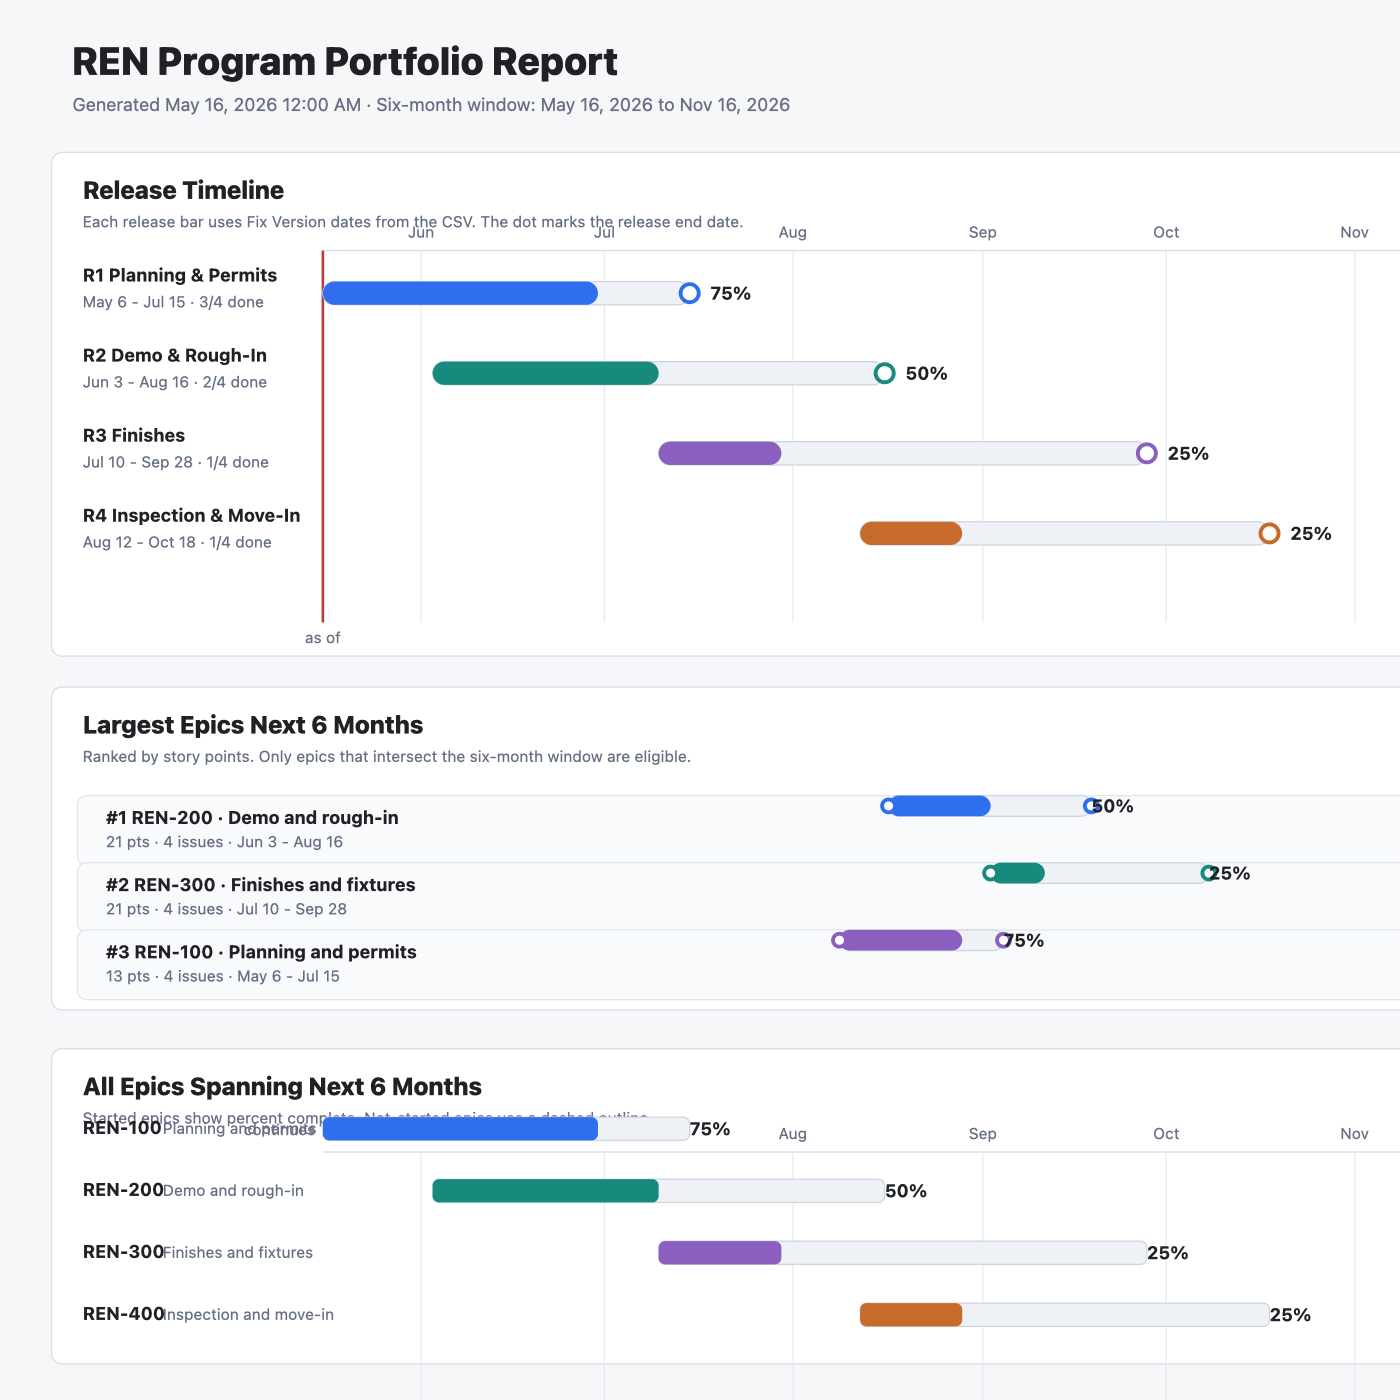
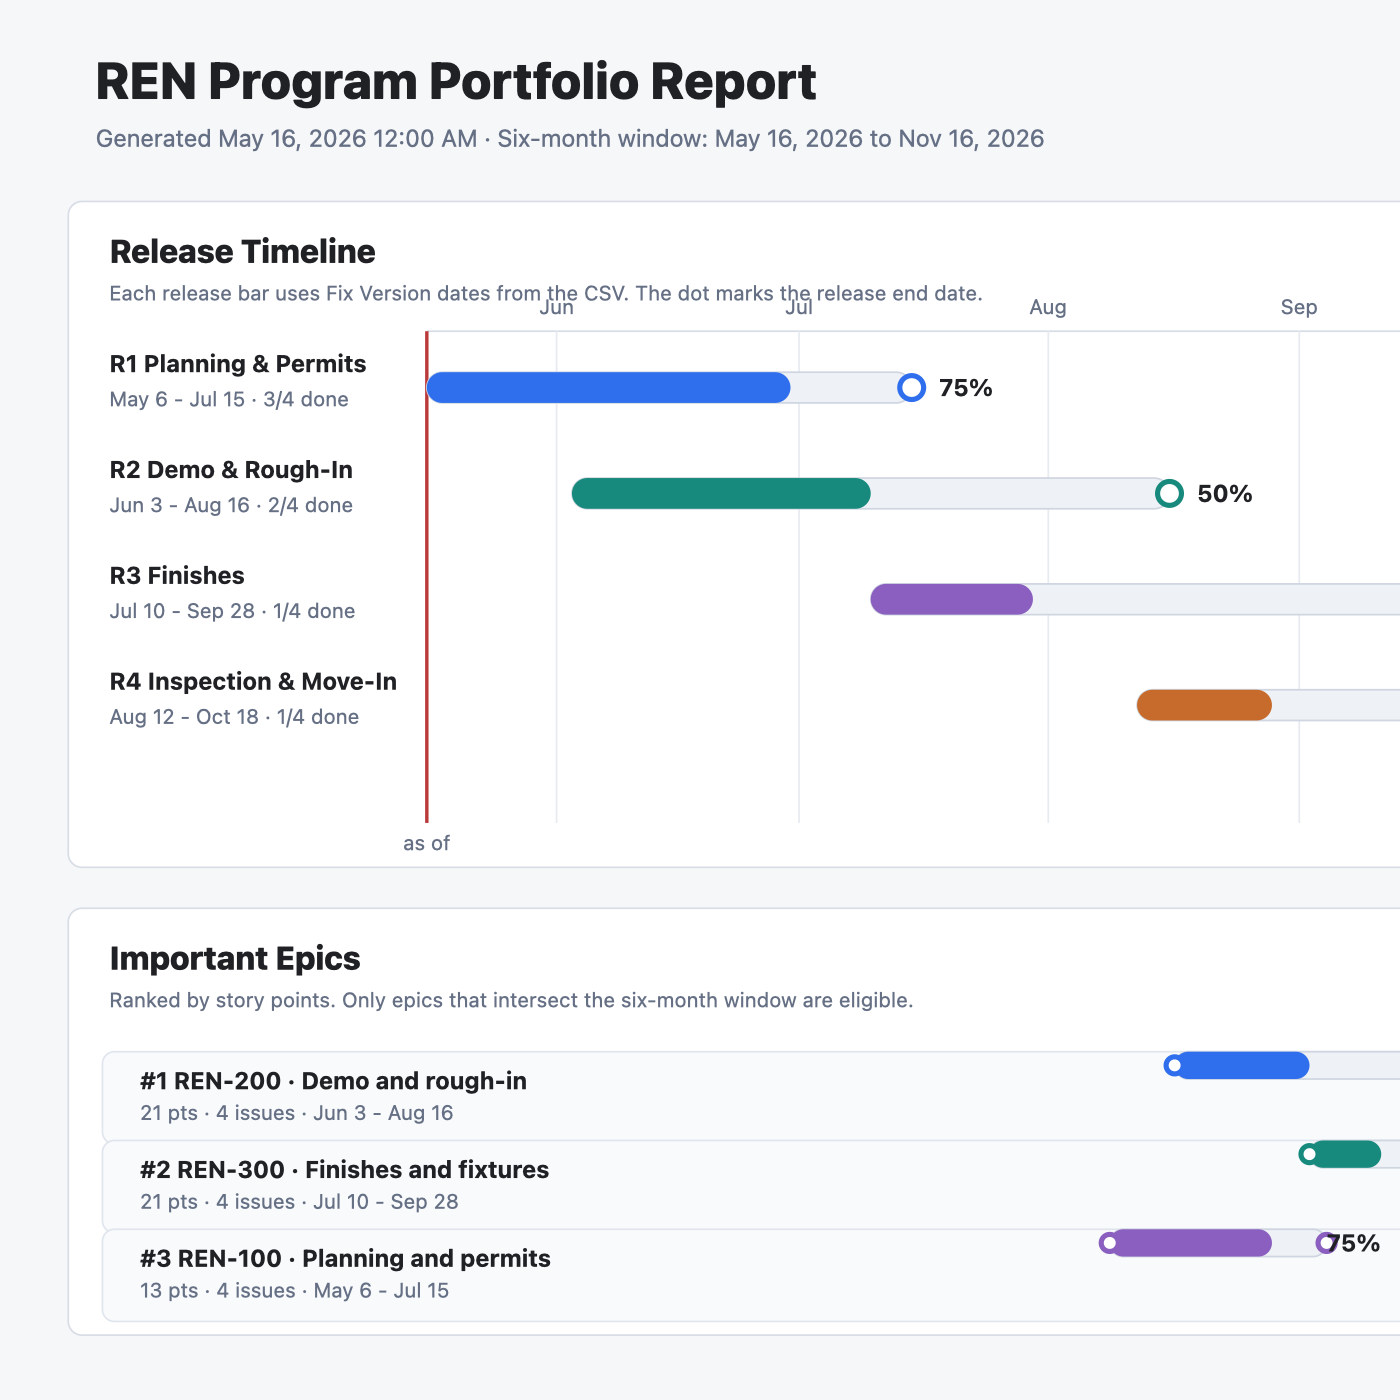
Simplify portfolio report visual

diff --git a/main.go b/main.go
@@ -781,7 +781,6 @@ type SVGReport struct {
 	RankingLabel string
 	Width        int
 	Height       int
-	GanttHeight  int
 	ChartLeft    int
 	ChartRight   int
 	ChartWidth   int
@@ -789,7 +788,6 @@ type SVGReport struct {
 	TodayX       int
 	Releases     []SVGRelease
 	TopEpics     []SVGEpic
-	GanttEpics   []SVGEpic
 }
 
 type SVGTick struct {
@@ -885,23 +883,13 @@ func buildSVGReport(report Report, mode string, now time.Time) SVGReport {
 		topEpics = append(topEpics, svgEpic(epic, i+1, 616+i*52, colors[i%len(colors)], windowStart, windowEnd, 650, 390, rankingLabel))
 	}
 
-	gantt := make([]SVGEpic, 0, len(report.Epics))
-	for i, epic := range report.Epics {
-		if i >= 9 {
-			break
-		}
-		gantt = append(gantt, svgEpic(epic, i+1, 865+i*48, colors[i%len(colors)], windowStart, windowEnd, left, width, rankingLabel))
-	}
-
-	height := 940 + maxInt(0, len(gantt)-1)*48
 	return SVGReport{
 		ProjectName:  report.ProjectName,
 		GeneratedAt:  report.GeneratedAt,
 		WindowLabel:  fmt.Sprintf("%s to %s", windowStart.Format("Jan 2, 2006"), windowEnd.Format("Jan 2, 2006")),
 		RankingLabel: rankingLabel,
 		Width:        1200,
-		Height:       height,
-		GanttHeight:  maxInt(150, height-812-28),
+		Height:       820,
 		ChartLeft:    left,
 		ChartRight:   right,
 		ChartWidth:   width,
@@ -909,7 +897,6 @@ func buildSVGReport(report Report, mode string, now time.Time) SVGReport {
 		TodayX:       dateX(windowStart, windowStart, windowEnd, left, width),
 		Releases:     releases,
 		TopEpics:     topEpics,
-		GanttEpics:   gantt,
 	}
 }
 
@@ -1033,7 +1020,7 @@ func writeSampleCSV(path string) error {
 
 const svgTemplate = `<svg xmlns="http://www.w3.org/2000/svg" width="{{.Width}}" height="{{.Height}}" viewBox="0 0 {{.Width}} {{.Height}}" role="img" aria-labelledby="title desc">
   <title id="title">{{.ProjectName}} Program Portfolio Report</title>
-  <desc id="desc">Jira CSV visualization with release timeline, largest epics over the next six months, and all epic gantt rows.</desc>
+  <desc id="desc">Jira CSV visualization with release timeline and important epics over the next six months.</desc>
   <defs>
     <style>
       .page { fill: #f6f7f9; }
@@ -1081,7 +1068,7 @@ const svgTemplate = `<svg xmlns="http://www.w3.org/2000/svg" width="{{.Width}}" 
   {{end}}
 
   <rect class="panel" x="40" y="532" width="1120" height="250" rx="8"/>
-  <text class="ink section" x="64" y="568">Largest Epics Next 6 Months</text>
+  <text class="ink section" x="64" y="568">Important Epics</text>
   <text class="muted small" x="64" y="590">{{.RankingLabel}}. Only epics that intersect the six-month window are eligible.</text>
   {{range .TopEpics}}
     <rect class="soft" x="60" y="{{.Y}}" width="1080" height="54" rx="7"/>
@@ -1096,28 +1083,6 @@ const svgTemplate = `<svg xmlns="http://www.w3.org/2000/svg" width="{{.Width}}" 
     <circle class="dot" cx="{{.X}}" cy="{{.Y}}" r="5" transform="translate(0 8)" stroke="{{.Color}}"/>
     <circle class="dot" cx="{{.X}}" cy="{{.Y}}" r="5" transform="translate({{.Width}} 8)" stroke="{{.Color}}"/>
     <text class="ink label" x="{{.X}}" dx="{{.Width}}" y="{{.Y}}" dy="13">{{.Percent}}%</text>
-  {{end}}
-
-  <rect class="panel" x="40" y="812" width="1120" height="{{.GanttHeight}}" rx="8"/>
-  <text class="ink section" x="64" y="848">All Epics Spanning Next 6 Months</text>
-  <text class="muted small" x="64" y="870">Started epics show percent complete. Not-started epics use a dashed outline.</text>
-  <line class="axis" x1="{{.ChartLeft}}" y1="892" x2="{{.ChartRight}}" y2="892"/>
-  {{range .MonthTicks}}
-    <line class="grid" x1="{{.X}}" y1="892" x2="{{.X}}" y2="10000"/>
-    <text class="muted small" x="{{.X}}" y="882" text-anchor="middle">{{.Label}}</text>
-  {{end}}
-  {{range .GanttEpics}}
-    <text class="ink label" x="64" y="{{.Y}}" dy="13">{{.Key}}</text>
-    <text class="muted small" x="126" y="{{.Y}}" dy="13">{{.Name}}</text>
-    <rect class="remainder" x="{{.X}}" y="{{.Y}}" width="{{.Width}}" height="18" rx="5"/>
-    {{if .NotStarted}}
-      <rect class="notStarted" x="{{.X}}" y="{{.Y}}" width="{{.Width}}" height="18" rx="5" stroke="{{.Color}}"/>
-    {{else}}
-      <rect class="completion" x="{{.X}}" y="{{.Y}}" width="{{.FillWidth}}" height="18" rx="5" fill="{{.Color}}"/>
-    {{end}}
-    {{if .ContinuesFrom}}<text class="muted small" x="{{.X}}" dx="-6" y="{{.Y}}" dy="14" text-anchor="end">continues</text>{{end}}
-    {{if .ContinuesPast}}<text class="muted small" x="{{.X}}" dx="{{.Width}}" y="{{.Y}}" dy="14">continues</text>{{end}}
-    <text class="ink label" x="{{.X}}" dx="{{.Width}}" y="{{.Y}}" dy="14">{{.Percent}}%</text>
   {{end}}
 </svg>
 `
